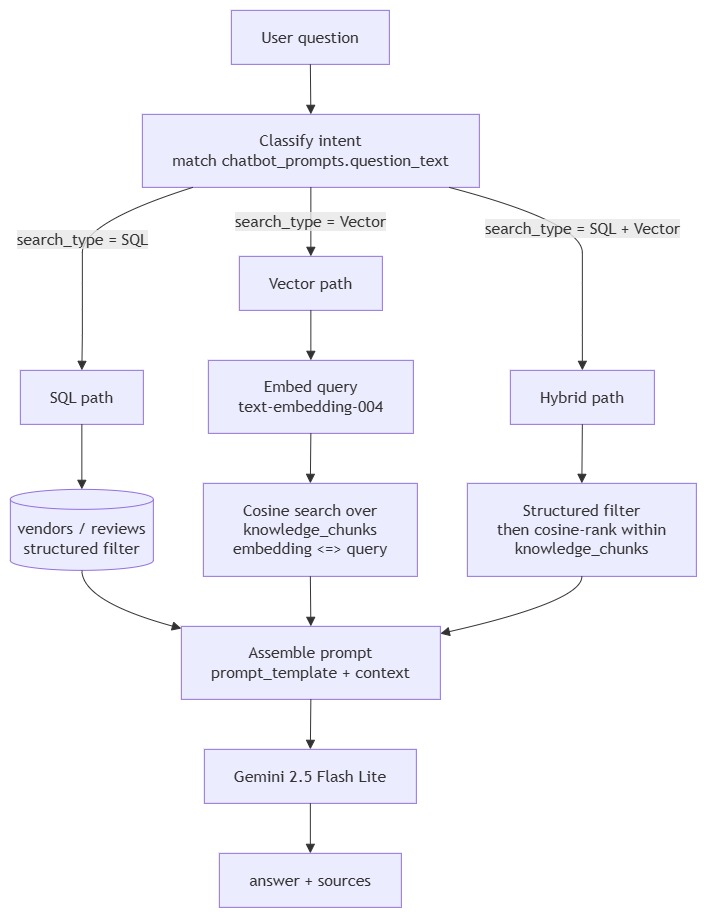
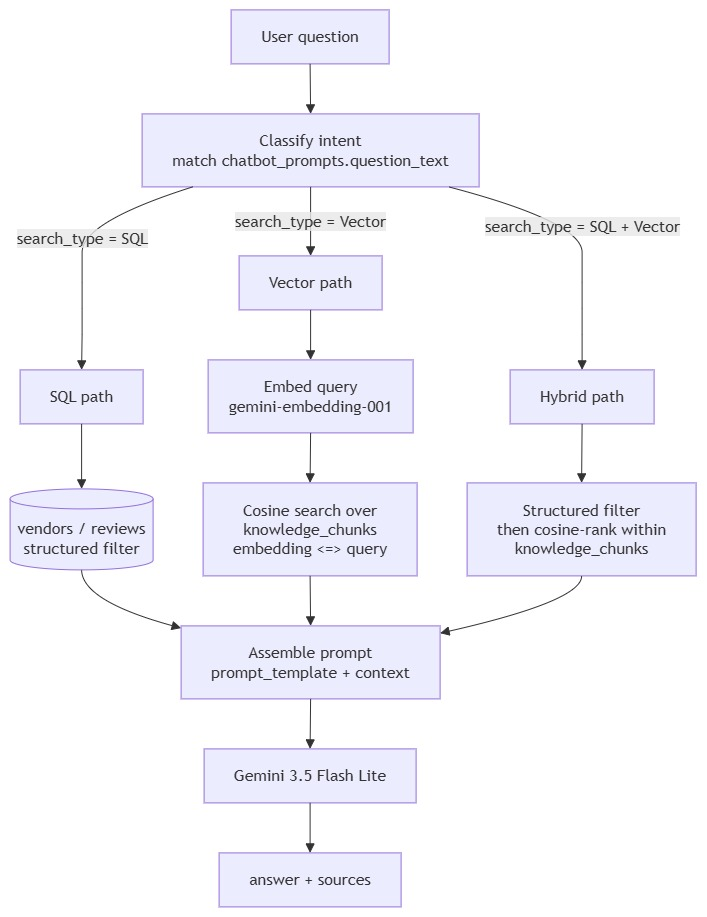
Update chatbot docs and diagrams

diff --git a/docs/chatbot.md b/docs/chatbot.md
@@ -135,8 +135,8 @@ target_metadata = [Base.metadata, VectorBase.metadata]
 - `knowledge_chunks` is the **retrieval corpus** that the vector paths read from
   - connect only at runtime through search_type`
 
-> **Status:** only the **Vector** path is implemented. SQL and Hybrid routing
-> are planned but not yet wired.
+> **Status:** all three paths (SQL, Vector, SQL + Vector) are implemented and
+> routed via `chatbot_prompts.search_type`.
 
 ![Chatbot Intent Routing](../diagrams/chatbot_routing.jpg)
 
@@ -202,19 +202,39 @@ never averages across the two sources.
 
 ## Implemented services
 
-Vector-only RAG pipeline, wired into a public `POST /chat` route.
+All three routing paths, wired into a public `POST /chat` route.
 
 - `embedding.py` — `Embedder` protocol + `GoogleEmbedder.embed(texts)` (batched
   `embed_content` via `gemini-embedding-001`).
 - `retrieval.py` — `KnowledgeStore` protocol (`search`, `resolve_vendor_names`);
   `PgvectorKnowledgeStore` (cosine `<=>`) + `FakeKnowledgeStore` (in-memory
-  cosine, for tests).
-- `chat.py` — `ChatService(embedder, store)` + `build_prompt`:
-  - embeds the question, retrieves top-k chunks, resolves vendor names, builds
-    the final prompt, and calls Gemini `generate_content`.
-  - `build_prompt(question, context, template=None)` fills `{user_question}` /
-    `{context}`; falls back to a generic `DEFAULT_SYSTEM_PROMPT` when
-    `prompt_template` is NULL (as all seeded rows are today).
+  cosine, for tests). `search` now honours a `filters` dict
+  (`{"vendor_ids": [...]}`, `{"source_type": [...]}`) so the Hybrid path can
+  restrict ranking to a structured subset.
+- `intent_router.py` — `IntentRouter` multi-tier classifier:
+  1. **Deterministic**: exact match against `chatbot_prompts.question_text`
+     plus structural rules (`how many`/`how much` → SQL count, `top N` /
+     `cheapest` / `best rated` → SQL rank) that force the SQL path.
+  2. **Embedding similarity**: cosine match above `SIMILARITY_THRESHOLD`
+     (0.88) against pre-embedded `question_text` (cached in memory, one batched
+     call).
+  3. **LLM fallback**: an injected Gemini classifier returns the `search_type`.
+- `structured_filters.py` — `StructuredFilter` + deterministic
+  `extract_structured_filters(question)` (dietary, cuisine, location, budget,
+  opening hours, sort, query_kind) with an optional LLM filter extractor.
+- `sql_search.py` — `SqlStore` protocol + `PgSqlStore` applying a
+  `StructuredFilter` to `vendors`/`reviews`; supports `list`, `count`, and
+  `rank` query kinds and `resolve_vendor_ids` for the Hybrid path.
+- `llm_routing.py` — Gemini-backed `build_classifier` / `build_filter_extractor`
+  injected from the dependency layer (substituted by fakes in tests).
+- `chat.py` — `ChatService(embedder, store, router, sql_store)` branches on the
+  matched intent's `search_type`:
+  - **SQL**: `sql_store.search(filters)` → `format_sql_context` → generate.
+  - **Vector**: embed → `store.search(query_vector)` → `format_context` → generate.
+  - **SQL + Vector**: resolve `vendor_ids` via SQL filter, embed → cosine-rank
+    `store.search(query_vector, filters={"vendor_ids": [...]})` → generate.
+  - `format_sql_context` renders structured rows; `build_prompt` falls back to
+    `DEFAULT_SYSTEM_PROMPT` while `prompt_template` is NULL.
 - `chunking.py` — `TextChunker.chunk(text)` keeps short review text as a single
   chunk; Reddit splitting is a future extension.
 - `ingest.py` — `KnowledgeDocument` dataclass + `build_chunks(session)` /
@@ -226,11 +246,15 @@ Vector-only RAG pipeline, wired into a public `POST /chat` route.
 
 ```text
 POST /chat   # public; body: { "question": "..." }
-             # response: { "answer": "...", "sources": [...] }
+             # response: { "answer": "...", "sources": [...],
+             #             "search_type": "SQL"|"Vector"|"SQL + Vector",
+             #             "intent": "<intent_key>" }
 ```
 
 Each source carries `source_type`, `source_id`, `vendor_id`, `vendor_name`
 (resolved by a batch `Vendor` lookup on `vendor_id` — no FK), and an `excerpt`.
+SQL-path sources use `source_type="vendor"` (structured attributes) or
+`source_type="count"`.
 
 ### Ingestion
 
